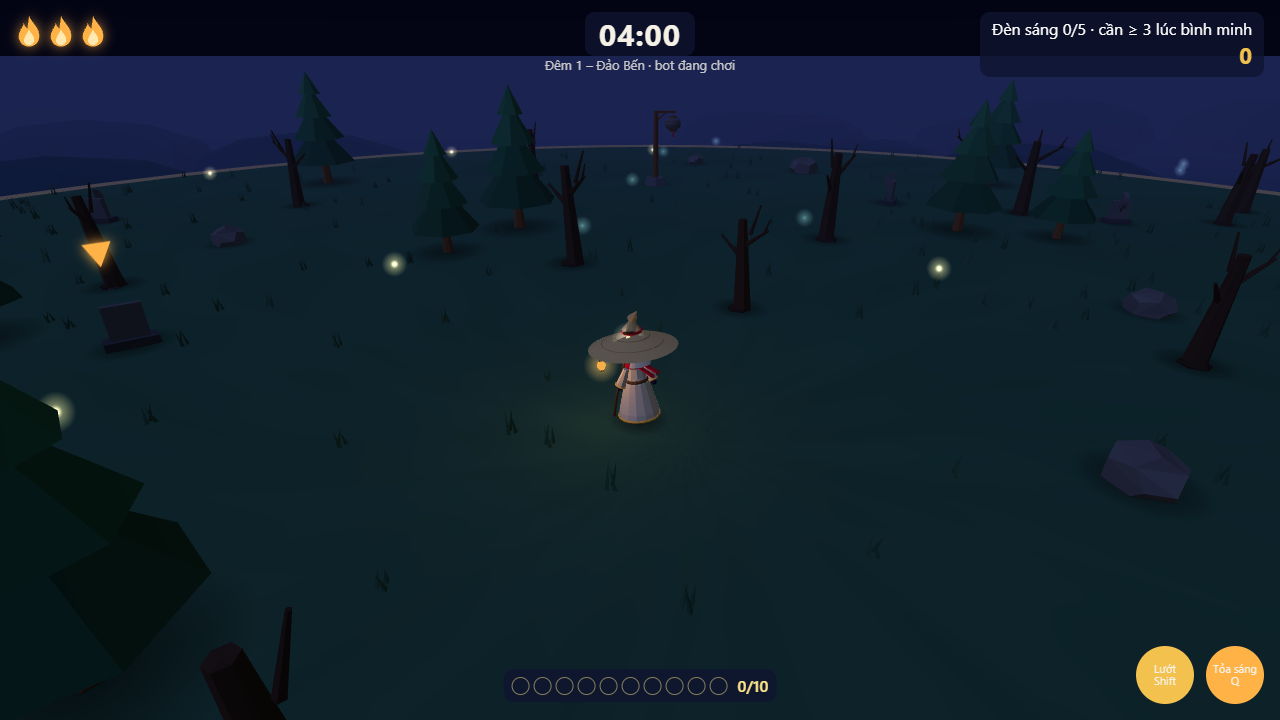
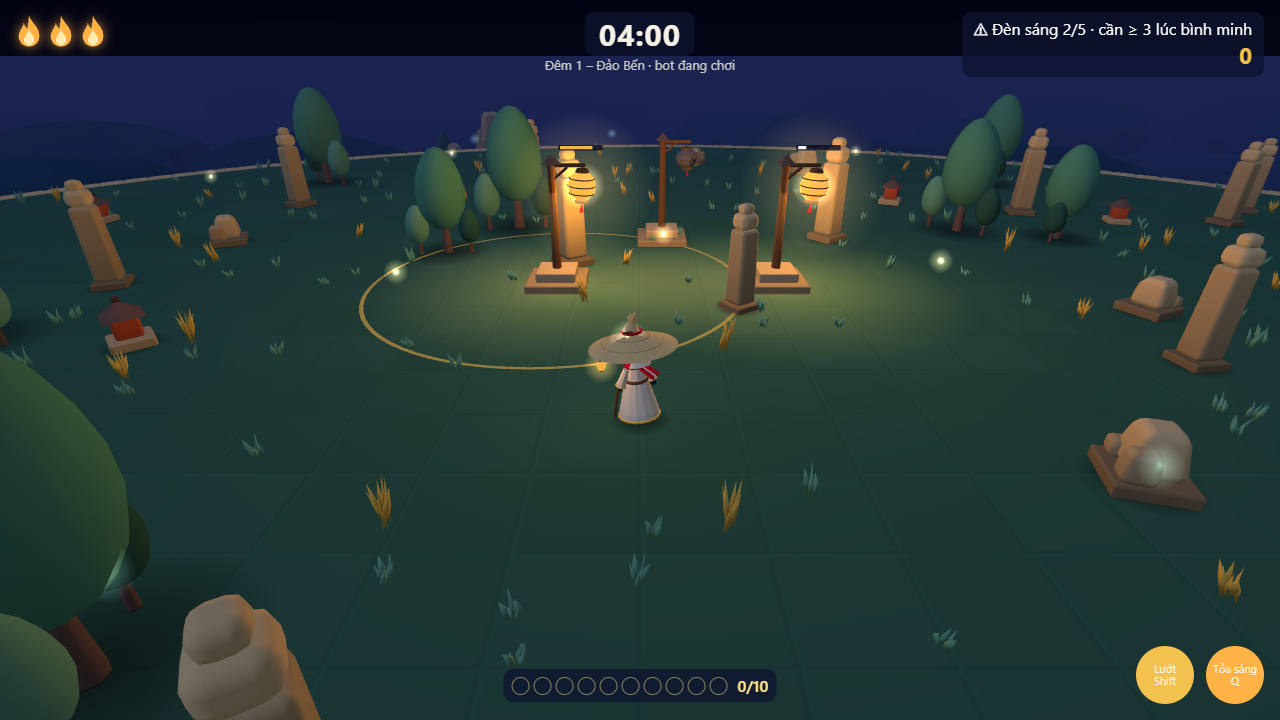
Phase 3 review: black-box CLI tests from the Ticket-03 text, colour-blind fixes noted
- tests/test_blackbox_ticket03.py: 15 CLI-only checks (same-tick out+relight, tie by id,
  stacked drain, eviction without damage, exactly-30 zone, dawn thresholds on all nights)
- notes: review against the PDF, regression of phase-2 tests (3 reds = replaced rules)
- refreshed colour-blind HUD screenshot

diff --git a/tests/test_blackbox_ticket03.py b/tests/test_blackbox_ticket03.py
@@ -1,0 +1,220 @@
+"""Black-box checks for Ticket-03, written the way a hidden grader would: only the real CLI
+(`python3 headless.py ...`), only JSON in / JSONL out, expected numbers derived from the ticket text
+(not from sim.py). Covers edge cases the white-box tests in test_phase3.py do not.
+
+Tick model reminder (Test Contract): an event produced while processing step k is stamped tick k+1;
+the snapshot of tick n is the state after n steps. Fuel decays in step 2, interact is step 5.
+"""
+import json
+import math
+import os
+import subprocess
+import sys
+import tempfile
+import unittest
+
+ROOT = os.path.dirname(os.path.dirname(os.path.abspath(__file__)))
+HEADLESS = os.path.join(ROOT, "headless.py")
+QUIET = {"random_motes": False, "random_shades": False, "random_drifters": False, "wind_enabled": False,
+         "motes": [], "shades": []}
+
+
+def run(scenario, frames=None, ticks=60, every=1, night=1):
+    d = tempfile.mkdtemp()
+    sc = dict(QUIET); sc.update(scenario)
+    sp, op = os.path.join(d, "s.json"), os.path.join(d, "o.jsonl")
+    with open(sp, "w", encoding="utf-8") as f:
+        json.dump(sc, f)
+    args = [sys.executable, HEADLESS, "--seed", "3", "--night", str(night), "--scenario", sp,
+            "--ticks", str(ticks), "--snapshot-every", str(every), "--out", op]
+    if frames is not None:
+        ip = os.path.join(d, "i.json")
+        with open(ip, "w", encoding="utf-8") as f:
+            json.dump({"frames": frames}, f)
+        args += ["--inputs", ip]
+    r = subprocess.run(args, capture_output=True, text=True)
+    if r.returncode != 0:
+        return r.returncode, []
+    with open(op, encoding="utf-8") as f:
+        return 0, [json.loads(l) for l in f]
+
+
+def evs(out, name=None):
+    return [l for l in out if l["type"] == "event" and (name is None or l["name"] == name)]
+
+
+def snap(out, tick):
+    return next(l for l in out if l["type"] == "snapshot" and l["tick"] == tick)
+
+
+def lan(out, tick, lid):
+    return next(l for l in snap(out, tick)["lanterns"] if l["id"] == lid)
+
+
+def shade(out, tick, sid="S1"):
+    return next(s for s in snap(out, tick)["shades"] if s["id"] == sid)
+
+
+def xz(a, b):
+    return math.hypot(a[0] - b[0], a[2] - b[2])
+
+
+PRESS0 = [{"tick": 0, "interact": True}, {"tick": 1, "interact": False}]
+
+
+class Interact(unittest.TestCase):
+    def test_full_lantern_has_decayed_before_interact(self):
+        # fuel 100 at tick 0 decays in step 2 (to 100 - 1/60) before step 5 interact => used = ceil(0.017/10) = 1
+        code, out = run({"player": {"pos": [0, 0, 0], "carried": 10}, "lanterns": [{"id": "L1", "pos": [0, 0, 1], "lit": True}]},
+                        PRESS0, ticks=2)
+        self.assertEqual(code, 0)
+        self.assertEqual([e["data"] for e in evs(out, "refuel")], [{"lantern_id": "L1", "amount": 1, "fuel": 100.0}])
+        self.assertEqual(snap(out, 1)["player"]["carried"], 9)
+        self.assertEqual(out[-1]["score"], 5)
+
+    def test_nearest_acceptable_lantern_skips_others_and_ties_by_id(self):
+        # L1 and L2 both unlit at the same distance 1.0 => the smaller id L1 receives the motes
+        code, out = run({"player": {"pos": [0, 0, 0], "carried": 10},
+                         "lanterns": [{"id": "L2", "pos": [0, 0, 1]}, {"id": "L1", "pos": [0, 0, -1]}]}, PRESS0, ticks=2)
+        self.assertEqual(evs(out, "lantern_lit")[0]["data"], {"lantern_id": "L1", "relight": False})
+        self.assertFalse(lan(out, 1, "L2")["lit"])
+
+    def test_out_and_relit_in_the_same_tick(self):
+        # fuel 0.01 -> out right after step 2 of step 0 (tick 1); step 5 then relights it for 5 motes, +40
+        code, out = run({"player": {"pos": [0, 0, 0], "carried": 10},
+                         "lanterns": [{"id": "L1", "pos": [0, 0, 1], "lit": True, "fuel": 0.01}]}, PRESS0, ticks=2)
+        t1 = [(e["name"], e["data"]) for e in evs(out) if e["tick"] == 1]
+        self.assertEqual(t1, [("lantern_out", {"lantern_id": "L1"}),
+                              ("deposit", {"lantern_id": "L1", "amount": 5, "deposited": 5}),
+                              ("lantern_lit", {"lantern_id": "L1", "relight": True})])
+        l1, p = lan(out, 1, "L1"), snap(out, 1)["player"]
+        self.assertEqual((l1["lit"], l1["fuel"], l1["relit_count"], l1["ever_lit"]), (True, 100.0, 1, True))
+        self.assertEqual((p["carried"], p["capacity"]), (5, 12))
+        self.assertEqual(out[-1]["score"], 5 * 5 + 40)
+
+    def test_lighting_every_lantern_does_not_end_the_night(self):
+        lans = [{"id": "L%d" % i, "lit": True} for i in range(1, 5)] + [{"id": "L5", "pos": [0, 0, 1]}]
+        code, out = run({"player": {"pos": [0, 0, 0], "carried": 10}, "lanterns": lans}, PRESS0, ticks=120)
+        self.assertEqual(len(evs(out, "lantern_lit")), 1)
+        self.assertEqual(evs(out, "game_over"), [])
+        self.assertEqual(out[-1]["state"], "playing")
+
+
+class Drain(unittest.TestCase):
+    def test_wander_picks_nearest_weak_lantern_tie_smaller_id_and_drains_6_per_s(self):
+        sc = {"player": {"pos": [0, 0, -40]},
+              "lanterns": [{"id": "L1", "pos": [5, 0, 0], "lit": True, "fuel": 25},
+                           {"id": "L2", "pos": [-5, 0, 0], "lit": True, "fuel": 25}],
+              "shades": [{"id": "S1", "pos": [0, 1, 0], "state": "wander"}]}
+        code, out = run(sc, ticks=600, every=1)
+        out_l1 = evs(out, "lantern_out")[0]
+        self.assertEqual(out_l1["data"], {"lantern_id": "L1"})                     # L1 (smaller id) dies first
+        fd = [e for e in evs(out, "fuel_drain") if e["tick"] <= out_l1["tick"]]
+        self.assertTrue(len(fd) >= 2)
+        self.assertEqual({e["data"]["lantern_id"] for e in fd}, {"L1"})
+        self.assertEqual(fd[1]["tick"] - fd[0]["tick"], 60)                       # logged every 60 ticks
+        self.assertAlmostEqual(fd[0]["data"]["fuel"] - fd[1]["data"]["fuel"], 6.0, delta=0.11)  # 5 drain + 1 decay
+        t = out_l1["tick"]
+        self.assertAlmostEqual(lan(out, t, "L2")["fuel"], round(25 - t / 60, 1), delta=0.051)  # L2 only decayed 1/s
+        # afterwards the shade moves on to the remaining weak lantern L2 (the next nearest weak one)
+        self.assertTrue(any(e["data"]["lantern_id"] == "L2" for e in evs(out, "fuel_drain") if e["tick"] > t))
+
+    def test_two_drainers_stack_and_lantern_goes_out(self):
+        sc = {"player": {"pos": [0, 0, -40]}, "lanterns": [{"id": "L1", "pos": [0, 0, 0], "lit": True, "fuel": 20}],
+              "shades": [{"id": "S1", "pos": [1.5, 1, 0], "state": "drain", "target_lantern_id": "L1"},
+                         {"id": "S2", "pos": [-1.5, 1, 0], "state": "drain", "target_lantern_id": "L1"}]}
+        code, out = run(sc, ticks=200, every=1)
+        self.assertEqual(lan(out, 60, "L1")["fuel"], 9.0)                          # 20 - 60 x 11/60
+        first = [e["data"] for e in evs(out, "fuel_drain") if e["tick"] == 60]
+        self.assertEqual(first, [{"lantern_id": "L1", "shade_id": "S1", "fuel": 9.0},
+                                 {"lantern_id": "L1", "shade_id": "S2", "fuel": 9.0}])
+        self.assertEqual([e["tick"] for e in evs(out, "lantern_out")], [110])      # ceil(1200 / 11) = 110
+        self.assertTrue(all(s["state"] != "drain" for s in snap(out, 111)["shades"]))
+
+    def test_drainer_switches_to_chase_when_player_within_6m(self):
+        sc = {"player": {"pos": [6.0, 0, 0]}, "lanterns": [{"id": "L1", "pos": [0, 0, 0], "lit": True, "fuel": 20}],
+              "shades": [{"id": "S1", "pos": [1.5, 1, 0], "state": "drain", "target_lantern_id": "L1"}]}
+        code, out = run(sc, ticks=2)
+        self.assertEqual(shade(out, 1)["state"], "chase")                          # 4.5 m <= 6 m
+
+    def test_refuel_to_30_evicts_without_damage(self):
+        sc = {"player": {"pos": [0, 0, -1], "carried": 10},
+              "lanterns": [{"id": "L1", "pos": [0, 0, 0], "lit": True, "fuel": 20}],
+              "shades": [{"id": "S1", "pos": [1.0, 1, 0], "state": "drain", "target_lantern_id": "L1"}]}
+        code, out = run(sc, PRESS0, ticks=150)
+        self.assertEqual(evs(out, "refuel")[0]["data"], {"lantern_id": "L1", "amount": 9, "fuel": 100.0})
+        self.assertNotEqual(shade(out, 1)["state"], "drain")
+        self.assertGreaterEqual(xz(shade(out, 31)["pos"], [0, 0, 0]), 6.0 - 1e-3)  # at the edge within 30 ticks
+        self.assertEqual(evs(out, "player_hit"), [])
+
+    def test_chasing_shade_ignores_weak_lantern(self):
+        sc = {"player": {"pos": [0, 0, 0]}, "lanterns": [{"id": "L1", "pos": [0, 0, 9], "lit": True, "fuel": 10}],
+              "shades": [{"id": "S1", "pos": [0, 1, 8], "state": "chase"}]}
+        code, out = run(sc, ticks=150)
+        self.assertTrue(all(s["shades"][0]["state"] != "drain" for s in out if s["type"] == "snapshot" and s["tick"] <= 100))
+        self.assertTrue(evs(out, "player_hit"))
+        self.assertEqual(evs(out, "fuel_drain"), [])
+
+    def test_exactly_30_keeps_the_zone_below_30_loses_it(self):
+        # fuel 30.5 -> exactly 30.0 after 30 steps (tick 30): still safe; tick 31: 29.98 -> zone gone
+        sc = {"player": {"pos": [0, 0, 0.5]}, "lanterns": [{"id": "L1", "pos": [0, 0, 0], "lit": True, "fuel": 30.5}],
+              "shades": [{"id": "S1", "pos": [0, 1, -6.0], "state": "chase"}]}
+        code, out = run(sc, ticks=40)
+        self.assertEqual(lan(out, 30, "L1")["fuel"], 30.0)
+        self.assertGreaterEqual(xz(shade(out, 30)["pos"], [0, 0, 0]), 6.0 - 1e-3)
+        self.assertLess(xz(shade(out, 32)["pos"], [0, 0, 0]), 6.0 - 0.05)
+
+
+class Dawn(unittest.TestCase):
+    def dawn(self, night, n_lit, total, fuel=None, time_left=2):
+        lans = [dict({"id": "L%d" % i, "lit": i <= n_lit}, **({"fuel": fuel} if fuel is not None and i <= n_lit else {}))
+                for i in range(1, total + 1)]
+        return run({"player": {"pos": [0, 0, -38] if night != 3 else [0, 0, -30]}, "lanterns": lans,
+                    "time_left_s": time_left}, night=night, ticks=int(time_left * 60) + 10, every=60)
+
+    def test_win_score_at_dawn(self):
+        code, out = self.dawn(1, 5, 5)
+        go = evs(out, "game_over")
+        self.assertEqual([(e["tick"], e["data"]) for e in go], [(120, {"result": "won", "reason": "dawn_survived"})])
+        self.assertEqual(out[-1]["score"], 5 * (50 + 98) + 3 * 50)  # fuel 100 - 2 s = 98
+
+    def test_thresholds_all_nights(self):
+        for night, total, need in ((1, 5, 3), (2, 6, 4), (3, 7, 5)):
+            code, out = self.dawn(night, need, total)
+            self.assertEqual(evs(out, "game_over")[0]["data"]["reason"], "dawn_survived", (night, need))
+            code, out = self.dawn(night, need - 1, total)
+            self.assertEqual(evs(out, "game_over")[0]["data"], {"result": "lost", "reason": "dawn"}, (night, need - 1))
+            self.assertEqual(out[-1]["score"], 0)                                   # no dawn bonus when lost
+
+    def test_lit_count_is_taken_at_the_last_tick(self):
+        # 3 lit but one has 0.5 fuel -> out at tick 30; at dawn (tick 60) only 2 lit -> lost
+        lans = [{"id": "L1", "lit": True}, {"id": "L2", "lit": True}, {"id": "L3", "lit": True, "fuel": 0.5}]
+        code, out = run({"player": {"pos": [0, 0, -38]}, "lanterns": lans, "time_left_s": 1}, ticks=70, every=10)
+        self.assertEqual([e["tick"] for e in evs(out, "lantern_out")], [30])
+        self.assertEqual(evs(out, "game_over")[0]["data"], {"result": "lost", "reason": "dawn"})
+
+
+class Contract(unittest.TestCase):
+    def test_snapshot_fields_v12(self):
+        code, out = run({"lanterns": [{"id": "L1", "lit": True, "fuel": 33.33}],
+                         "shades": [{"id": "S1", "pos": [30, 1, 30], "state": "drain", "target_lantern_id": "L1"}]}, ticks=0)
+        s = out[0]
+        l1, l2 = s["lanterns"][0], s["lanterns"][1]
+        self.assertEqual((l1["fuel"], l1["ever_lit"], l1["relit_count"]), (33.3, True, 0))
+        self.assertEqual((l2["fuel"], l2["ever_lit"]), (0, False))
+        self.assertEqual(s["player"]["capacity"], 10)
+        self.assertEqual(s["shades"][0]["state"], "drain")
+
+    def test_bad_lantern_fields_exit_2(self):
+        for bad in ({"id": "L1", "fuel": 101}, {"id": "L1", "fuel": -1}, {"id": "L1", "ever_lit": "yes"},
+                    {"id": "L1", "lit": 1}):
+            code, _ = run({"lanterns": [bad]}, ticks=1)
+            self.assertEqual(code, 2, bad)
+        code, _ = run({"player": {"successful_lights": -1}}, ticks=1)
+        self.assertEqual(code, 2)
+        code, _ = run({"shades": [{"id": "S1", "pos": [0, 1, 0], "state": "sleep"}]}, ticks=1)
+        self.assertEqual(code, 2)
+
+
+if __name__ == "__main__":
+    unittest.main()

diff --git a/docs/notes/phase-3.md b/docs/notes/phase-3.md
@@ -34,3 +34,31 @@ Quyết định thiết kế: [ADR 0001](../adr/0001-lantern-fuel-and-dawn-win.m
 - **Đạt:** mọi luật và Contract v1.2; ADR; changelog; test cũ được cập nhật có lý do; chế độ mù màu; thanh dầu và nhấp nháy; HUD sức chứa.
 - **Chưa đạt / giới hạn:** bot chỉ thắng Đêm 1 (3/3 seed). Đêm 2–3 bot thua: không giữ đủ 4/6 hoặc 5/7 đèn tới bình minh. Chưa có bằng chứng thắng Đêm 2–3 dưới luật mới. Đèn rách và nhấp nháy mới kiểm bằng ảnh.
 - **Lỗi AI phát hiện trong phase:** (1) Bóng `drain` bị đẩy khỏi vùng an toàn nhưng vẫn giữ trạng thái `drain`, vì nhánh bóng đang bị đẩy bỏ qua bước chuyển trạng thái (test bắt được). (2) Công cụ ghi lại của bot chỉ làm tròn hướng đi ở tick có frame mới, nên ghi lại ≠ phát lại; lỗi này có từ Phase 2 và lộ ra khi luật mới làm đường đi nhạy hơn. (3) `verify --write` chạy test trước khi ghi bằng chứng mà test đó cần, nên phải chạy hai lần.
+
+## 5. Rà soát lại theo PDF Ticket-03 (sau khi nộp tag `phase-3`)
+Đối chiếu từng mục của PDF với code và test: luật dầu, châm dầu, chọn đèn, hết dầu, thắp lại, drain và các chuyển trạng thái, đẩy bóng không gây sát thương, thắng lúc bình minh, thứ tự tick, sức chứa, điểm, Contract v1.2 (tuning, snapshot, scenario, sự kiện) đều đúng; `verify.py` PASS, 61 test xanh. Tìm ra 2 thiếu sót ở **chế độ mù màu** (chỉ phần hiển thị, headless không đổi), đã sửa trong `web/template.html`:
+1. Bộ đếm "Đèn sáng k/n" chuyển sang màu cảnh báo khi thiếu đèn nhưng **không có biểu tượng ⚠** (ticket yêu cầu #FFFFFF kèm ⚠). Đồng hồ và màn kết quả đã có ⚠ từ trước.
+2. Vết rách chỉ hiện trên đèn **đã từng sáng** rồi tắt; đèn chưa từng sáng chỉ bị xẹp. Ticket: đèn tắt phải vừa xẹp 20% vừa có vết rách ⇒ giờ mọi đèn không sáng đều xẹp và rách.
+Ảnh sau khi sửa: [web_hud_colorblind.png](../proof/phase-3/web_hud_colorblind.png).
+
+### Mô phỏng test ẩn (giảng viên không công bố kịch bản)
+- `tests/test_blackbox_ticket03.py` (15 test): chỉ gọi CLI `headless.py`, kỳ vọng tính tay từ PDF Ticket-03, không đọc `sim.py`. Bao phủ các chỗ test cũ chưa chạm:
+  - đèn "đầy" đã hao trước bước tương tác;
+  - chọn đèn hòa khoảng cách theo id;
+  - đèn tắt rồi được thắp lại ngay trong cùng tick (thứ tự sự kiện);
+  - thắp hết đèn không kết thúc Đêm;
+  - bóng hòa khoảng cách chọn id nhỏ, hút 6/giây gồm cả hao, log mỗi 60 tick;
+  - 2 bóng cộng dồn, đèn tắt đúng tick 110;
+  - drain → chase khi Mây ≤ 6 m;
+  - châm dầu đẩy bóng ra mép ≤ 30 tick, không gây sát thương;
+  - bóng đang chase bỏ qua đèn yếu;
+  - đúng 30 dầu còn vùng an toàn, 29.98 thì mất;
+  - ngưỡng bình minh cả 3 đêm, đếm tại tick cuối;
+  - trường snapshot v1.2;
+  - input sai thì exit 2.
+- Kết quả: 15/15 đạt. Lần chạy đầu có 1 test đỏ do **chính test sai**: L1 hết dầu rồi bóng chuyển sang hút L2 là đúng luật. Đã sửa test cho đúng khoảng thời gian, không sửa game.
+- Hồi quy kiểu giảng viên:
+  - `tests/test_contract.py` của tag `phase-2` chạy trên code hiện tại: 35/38 đạt. 3 test đỏ đều là luật đã bị Ticket-03 thay (contract_version 1.1 → 1.2, điểm 6 → 5/đom đóm, `all_lit` → `dawn_survived`), đúng danh sách ở mục 1.
+  - Test của tag `phase-1` không import được vì đọc hằng số nội bộ đã bỏ ở Phase 2 (white-box). Test ẩn chỉ đi qua CLI.
+  - Mọi file scenario/inputs của tag `phase-1` và `phase-2` vẫn chạy qua CLI hiện tại (exit 0; riêng `bad_ticks` exit 2 đúng contract).
+- Sau khi thêm: `python3 tools/verify.py` → 76 test, OVERALL PASS.
